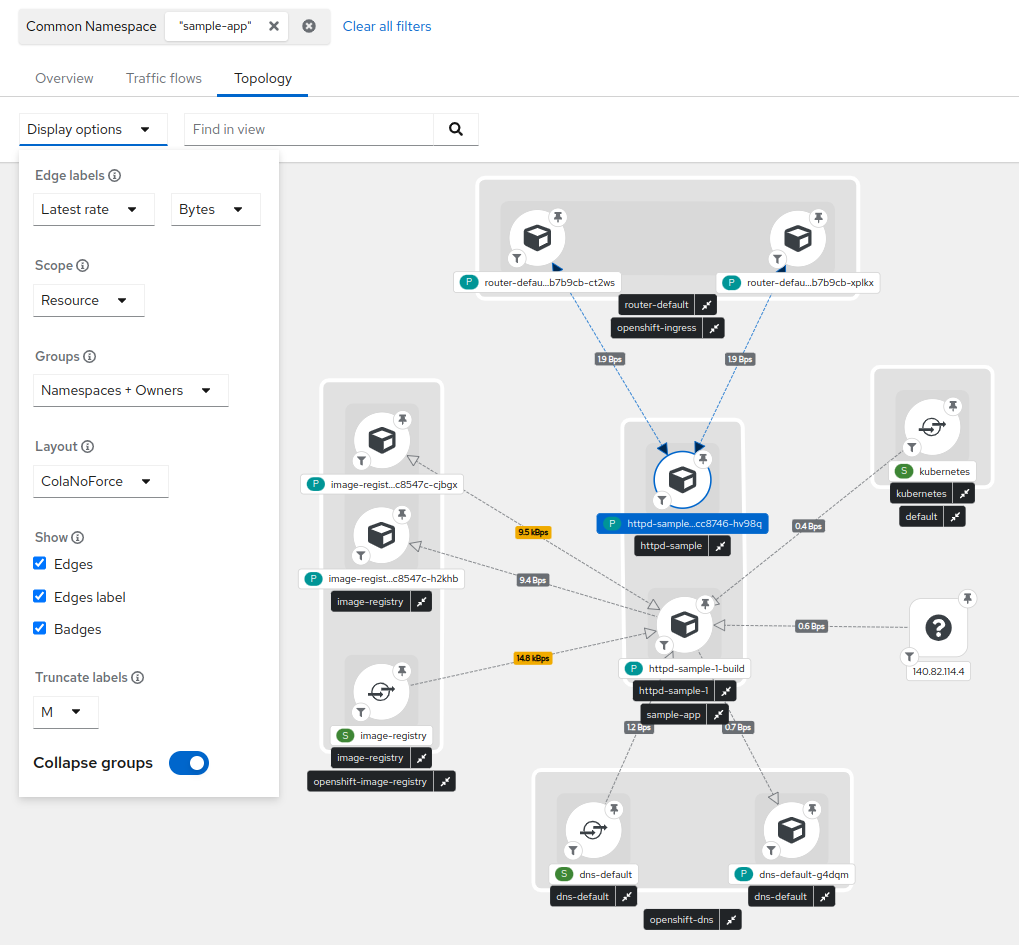
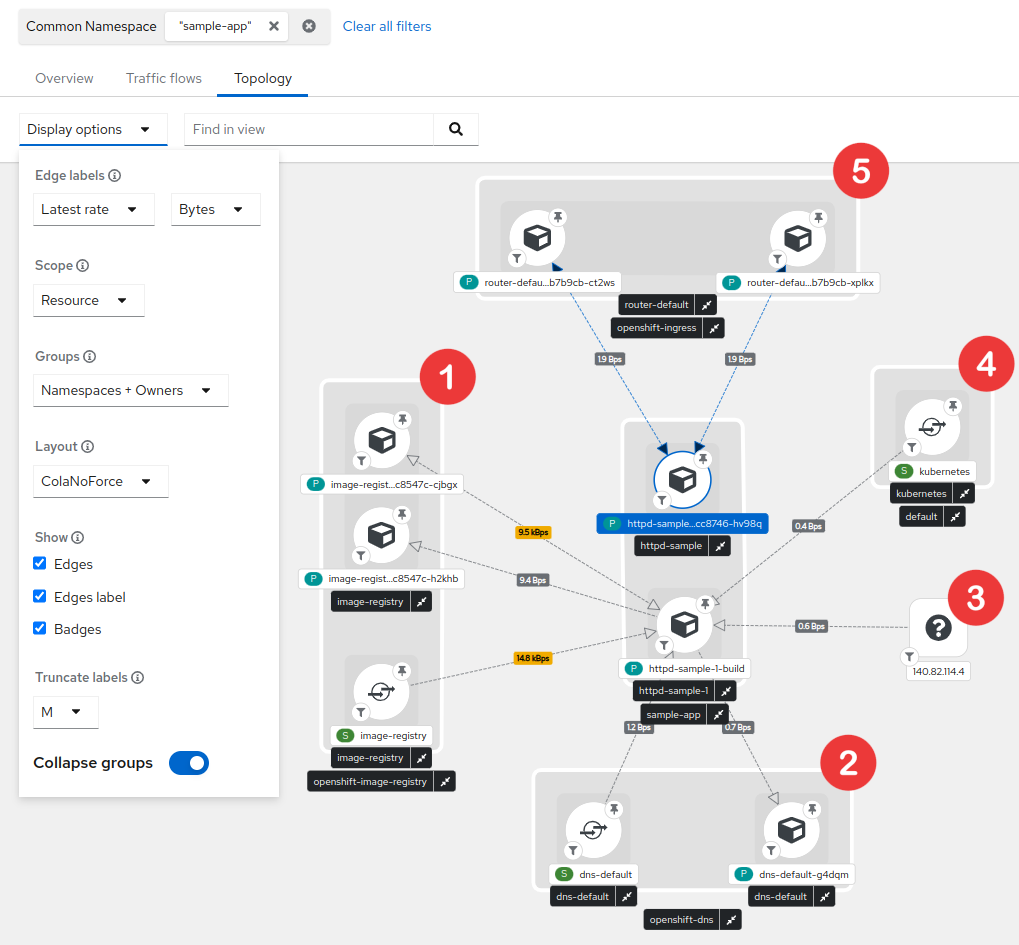
update & conclusion

diff --git a/3d-topology/3d_topology.md b/3d-topology/3d_topology.md
@@ -27,12 +27,12 @@ To avoid huge and unreadable network graphs, we introduced in Network Observabil
 Showing by default the last 5 minutes, it allows you to focus on a particular time window
 
 - Filtering
-To select a particular set of Source and / or Destination records such as `IPs`, `Ports`, `Protocol`, `Kind`, `Name` etc
+To select a particular set of records based on Source and / or Destination criterias such as `IPs`, `Ports`, `Protocol`, `Kind`, `Name` etc
 
-- Level of details (named scope) 
+- Level of details (scope display option) 
 Allowing you to select from `Node` / `Namespace` / `Owner` / `Resource` aggregating metrics into the specified layer
 
-- Grouping 
+- Groups
 To arrange components by their ownership
 
 ## Example of usage
@@ -41,9 +41,9 @@ What happens in your network when you deploy a [httpd sample application](https:
 
 ![Sample app deployment](./images/sample-app-deployment.png)
 
-You can see that the final deployed pod in blue involved another pod called `httpd-sample-1-build` that pulled the image from `openshift-image-registry`, did some DNS resolution for provided image URL, pulled it from the resolved external IP before creating our pod through kubernetes services.
+You can see that the final deployed pod in blue involved another pod called `httpd-sample-1-build` that pulled the image from `openshift-image-registry` (1), did some DNS resolution for provided image URL (2), pulled it from the resolved external IP (3) before creating our pod through kubernetes services (4).
 
-Finally, some flows are showing between our pod and `openshift-ingress` after opening the hosted page.
+Finally, some flows are showing between our pod and `openshift-ingress` after opening the hosted page (5).
 
 After moving my time window or waiting a bit, the `httpd-sample-1-build` pod disappears as it's status is now `Completed`.
 
@@ -66,13 +66,13 @@ We can do the following observation from this:
 
 Here is where [3D Topology](https://github.com/jpinsonneau/react-three-topology) makes the scene !
 
-3D representations are pretty old and you can find a lot of them online such as [networkmaps](https://github.com/pablomarle/networkmaps), [vagrant-mesh-net](https://github.com/IMPIMBA/vagrant-mesh-net) or even more generic ones such as [splunk-3D-graph-network-topology-viz](https://github.com/splunk/splunk-3D-graph-network-topology-viz). Each of these has it's own rendering philosophy to resolve specific use cases.
+3D representations are pretty old and you can find a lot of them online such as [networkmaps](https://github.com/pablomarle/networkmaps), [vagrant-mesh-net](https://github.com/IMPIMBA/vagrant-mesh-net) or even more generic ones such as [splunk-3D-graph-network-topology-viz](https://github.com/splunk/splunk-3D-graph-network-topology-viz). Each of these has its own rendering philosophy to resolve specific use cases.
 
 This is a way to render your network using a representation everybody knows: "buildings".
 ```
 To enable this feature in Network Observability, you will need to use Network Observability v1.0 and add "&3d=preview" in the URL. 
 Then go to Topology tab -> Show advanced options -> Display options 
-From there you can now select "3D" in the Layout option.
+From there set Scope option as "Resource" and Layout as "3D".
 ```
 
 ![3D topology building](./images/3d-building.png)
@@ -101,8 +101,22 @@ It also pin up how your load is balanced between nodes.
 The important part of your network traffic is highlighted since lines are less likely to cross than in the 2D view and their size and color differ according to bytes rate. 
 A thin black line will represent a smaller amount than a heavy red line.
 
-TODO: 
-- conclusion
-- open questions on use cases
-- alternative layouts
-- how contribute
+## Conclusion
+
+We need to identify the various use cases to elaborate proper representations. This is a daily step by step work between internal teams on both engineering and UI / UX and customers. We are likely to implement more views in the future to highlight network issues, health, threats and usage. 
+One of the next implementations is going to be [sankey chart](https://observablehq.com/@d3/sankey) that will be useful for connection tracking.
+
+## We need you !
+
+Feel free to contribute by commenting this post, opening issues in [netobserv console plugin](https://github.com/netobserv/network-observability-console-plugin/issues) or opening pull request in any [netobserv component](https://github.com/netobserv)
+
+Tell us more about your expectations, the way you currently solve issues and what could help your daily experience.
+
+![Gallery 1](./images/gallery-1.png)
+![Gallery 2](./images/gallery-2.png)
+![Gallery 3](./images/gallery-3.png)
+![Gallery 4](./images/gallery-4.png)
+![Gallery 5](./images/gallery-5.png)
+![Gallery 6](./images/gallery-6.png)
+![Gallery 7](./images/gallery-7.png)
+![Gallery 8](./images/gallery-8.png)
